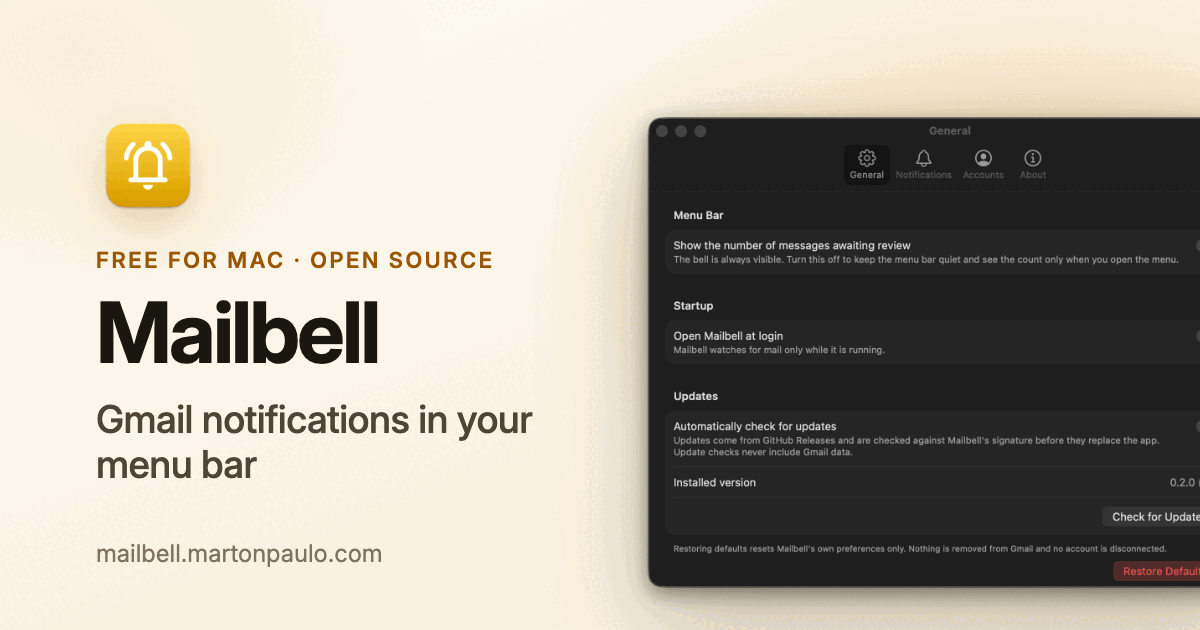
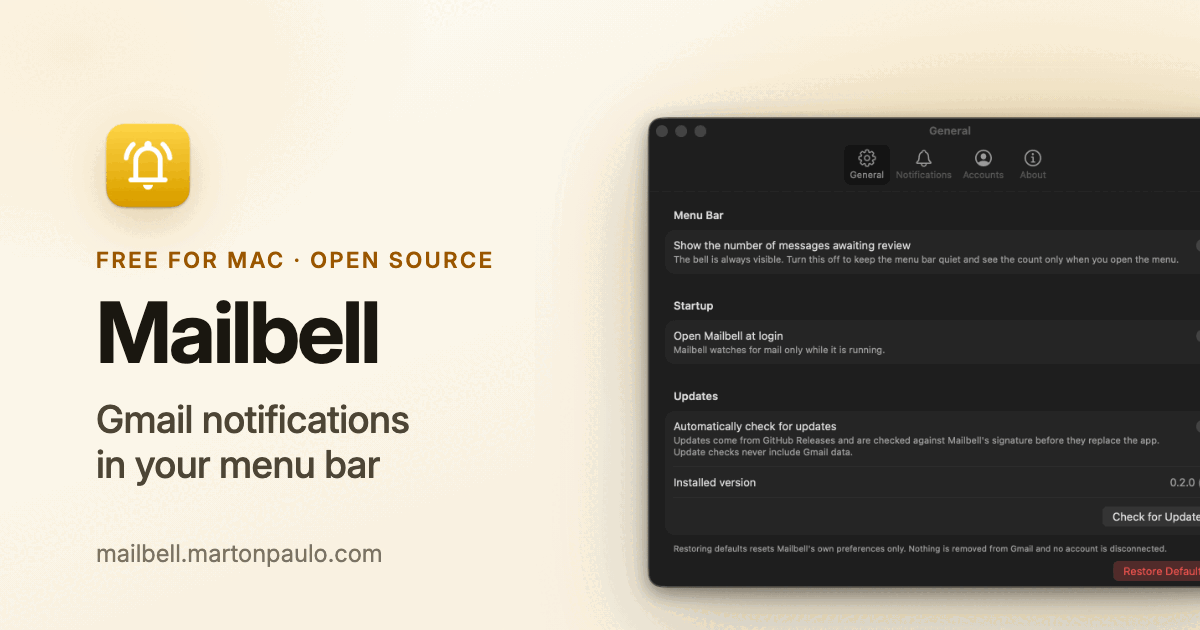
fix(site): balance the social card's promise across its two lines

Changed region(s): [[0.0617, 0.7238, 0.3392, 0.7841], [0.3392, 0.6333, 0.4625, 0.6937]]

diff --git a/design/social-card/social-card.html b/design/social-card/social-card.html
@@ -28,7 +28,7 @@
              text-transform: uppercase; color: #9a5600; }
   h1 { margin: 0; font: 700 84px/1 "Inter Display", sans-serif; letter-spacing: -0.035em; }
   .promise { margin: 22px 0 0; font-weight: 500; font-size: 38px; line-height: 1.18;
-             letter-spacing: -0.015em; color: #4d4535; }
+             letter-spacing: -0.015em; color: #4d4535; text-wrap: balance; }
   .domain { position: absolute; left: 96px; bottom: 62px; font-size: 24px; color: #7d735f; }
   .shot { position: absolute; left: 620px; top: 96px; width: 660px; border-radius: 14px;
           filter: drop-shadow(0 30px 50px rgba(60, 40, 0, .28)); }
